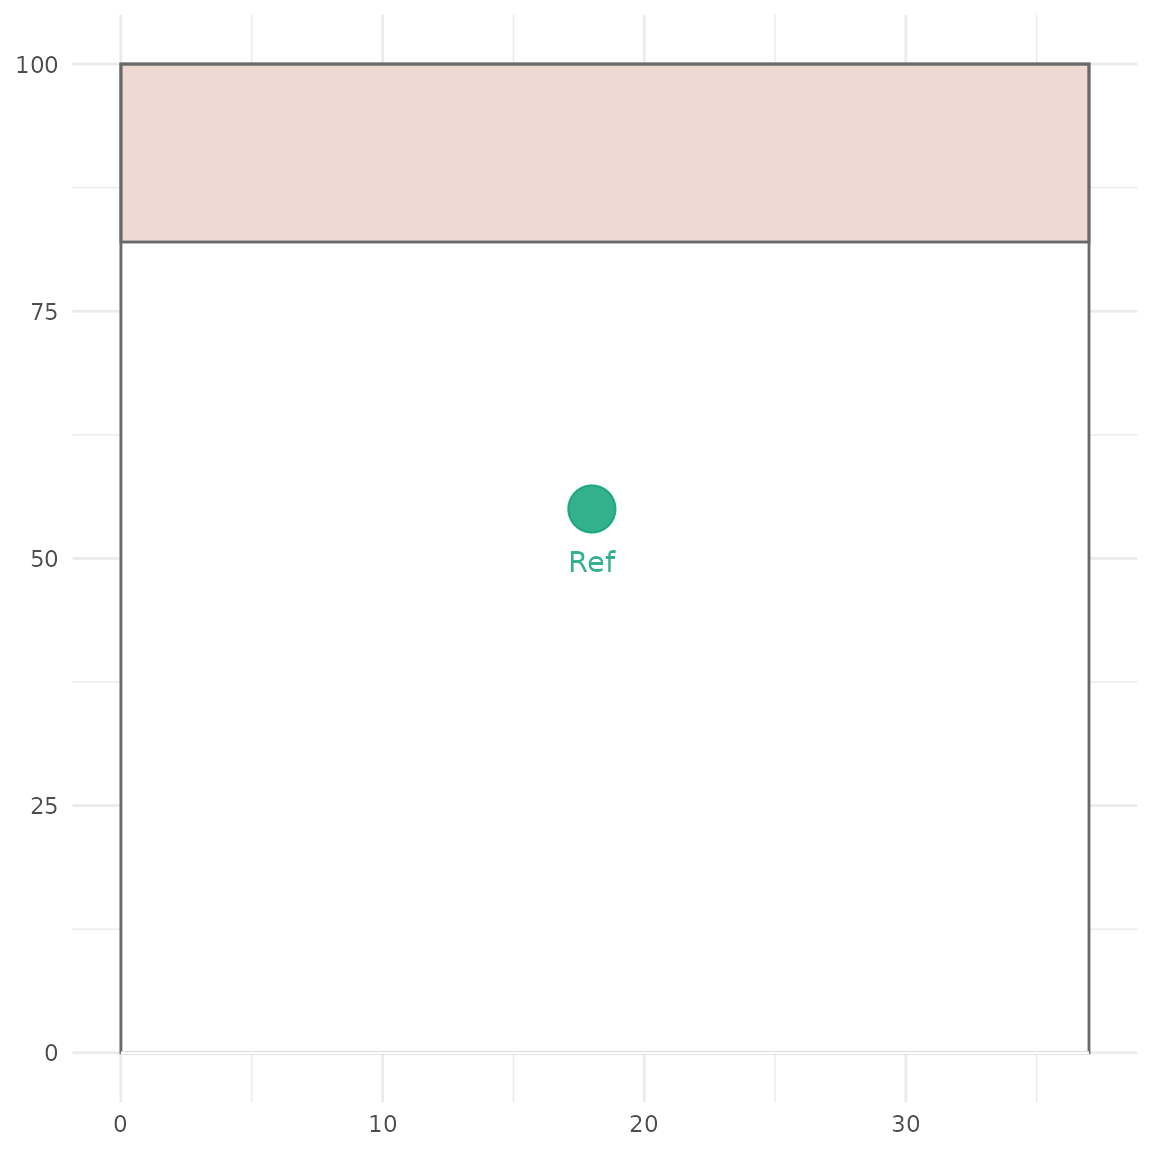
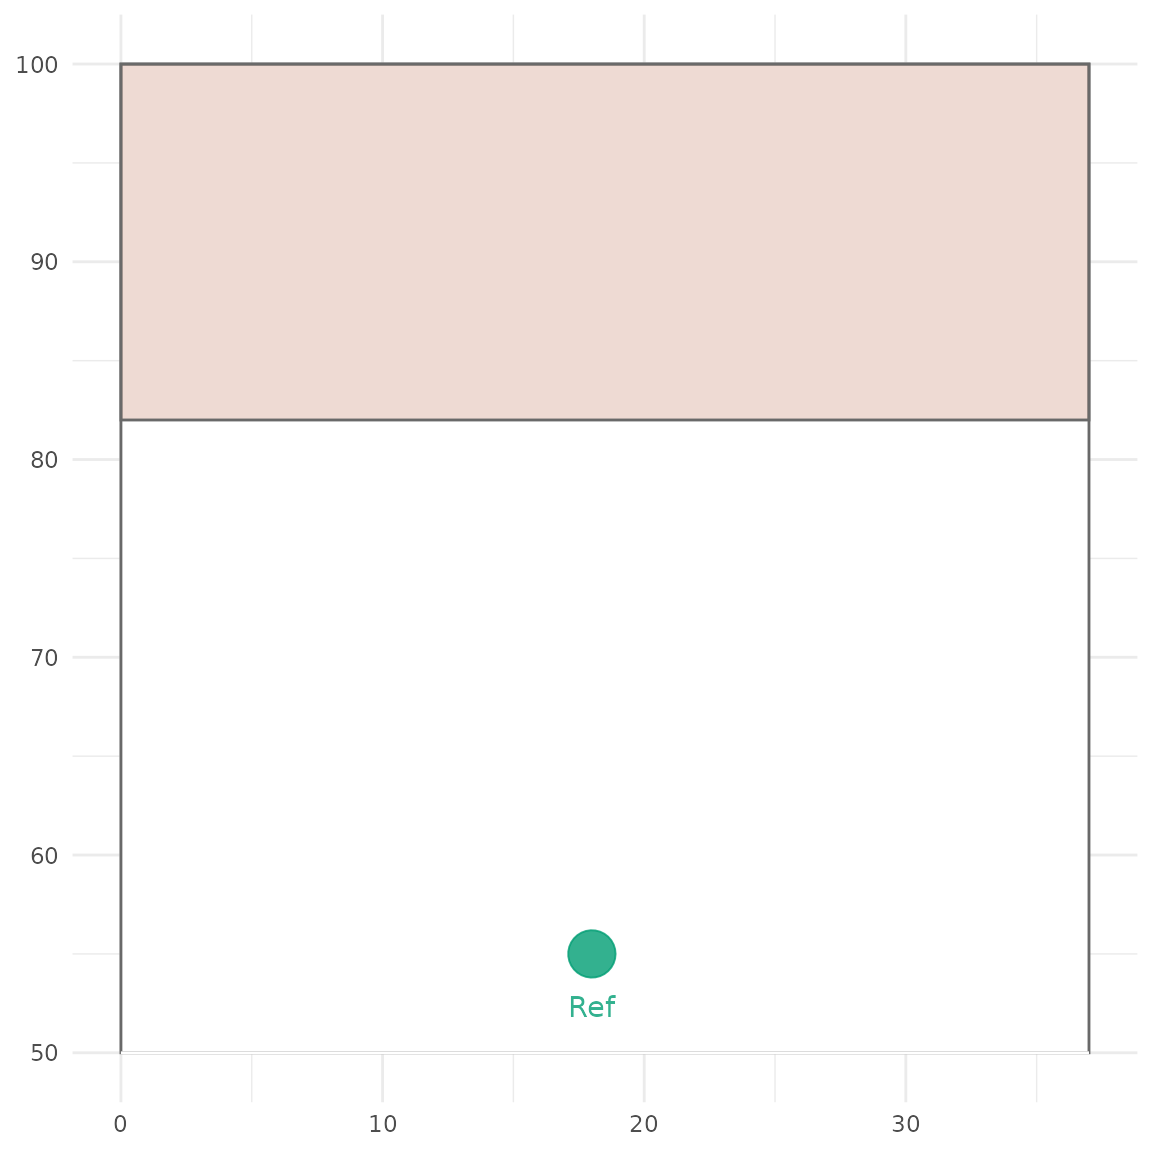
Deploying to gh-pages from @ swebb1/ggulti@e62d3962bcc250b4de312a87a2ffb97cc0c7c3d3 🚀

diff --git a/articles/Drawing_up_plays.html b/articles/Drawing_up_plays.html
@@ -88,7 +88,7 @@
 <code>endzone_fill</code> argument specifies the color of the
 endzone.</p>
 <div class="sourceCode" id="cb3"><pre class="downlit sourceCode r">
-<code class="sourceCode R"><span><span class="va">pitch</span> <span class="op">=</span> <span class="fu"><a href="../reference/ggpitch.html">ggpitch</a></span><span class="op">(</span>type<span class="op">=</span><span class="st">"half_attack"</span>,endzone_fill <span class="op">=</span> <span class="st">"#AA4422"</span><span class="op">)</span></span></code></pre></div>
+<code class="sourceCode R"><span><span class="va">pitch</span> <span class="op">=</span> <span class="fu"><a href="../reference/ggpitch.html">ggpitch</a></span><span class="op">(</span>type<span class="op">=</span><span class="st">"half_attack"</span>,endzone_fill <span class="op">=</span> <span class="st">"#AA4422"</span>, ymin <span class="op">=</span> <span class="fl">50</span><span class="op">)</span></span></code></pre></div>
 <p>Pitch types</p>
 <ul>
 <li><p>“full” = Full pitch (default)</p></li>
@@ -103,10 +103,10 @@ endzone.</p>
 <code class="sourceCode R"><span><span class="fu"><a href="../reference/ggpitch.html">ggpitch</a></span><span class="op">(</span><span class="op">)</span></span></code></pre></div>
 <p><img src=".unnamed-chunk-4-1.png" width="576"></p>
 <div class="sourceCode" id="cb5"><pre class="downlit sourceCode r">
-<code class="sourceCode R"><span><span class="fu"><a href="../reference/ggpitch.html">ggpitch</a></span><span class="op">(</span>type <span class="op">=</span> <span class="st">"half_attack"</span>, fill <span class="op">=</span> <span class="st">"lightgreen"</span>, alpha<span class="op">=</span><span class="fl">1</span><span class="op">)</span></span></code></pre></div>
+<code class="sourceCode R"><span><span class="fu"><a href="../reference/ggpitch.html">ggpitch</a></span><span class="op">(</span>type <span class="op">=</span> <span class="st">"half_attack"</span>, fill <span class="op">=</span> <span class="st">"lightgreen"</span>, alpha<span class="op">=</span><span class="fl">1</span>, ymin <span class="op">=</span> <span class="fl">50</span><span class="op">)</span></span></code></pre></div>
 <p><img src=".unnamed-chunk-5-1.png" width="576"></p>
 <div class="sourceCode" id="cb6"><pre class="downlit sourceCode r">
-<code class="sourceCode R"><span><span class="fu"><a href="../reference/ggpitch.html">ggpitch</a></span><span class="op">(</span>type <span class="op">=</span> <span class="st">"half_defend"</span>, endzone_fill <span class="op">=</span> <span class="st">"black"</span><span class="op">)</span></span></code></pre></div>
+<code class="sourceCode R"><span><span class="fu"><a href="../reference/ggpitch.html">ggpitch</a></span><span class="op">(</span>type <span class="op">=</span> <span class="st">"half_defend"</span>, endzone_fill <span class="op">=</span> <span class="st">"black"</span>, ymax <span class="op">=</span> <span class="fl">50</span><span class="op">)</span></span></code></pre></div>
 <p><img src=".unnamed-chunk-6-1.png" width="576"></p>
 <div class="sourceCode" id="cb7"><pre class="downlit sourceCode r">
 <code class="sourceCode R"><span><span class="fu"><a href="../reference/ggpitch.html">ggpitch</a></span><span class="op">(</span>type <span class="op">=</span> <span class="st">"blank"</span>, ymax <span class="op">=</span> <span class="fl">50</span>, xmax <span class="op">=</span> <span class="fl">30</span><span class="op">)</span></span></code></pre></div>

diff --git a/reference/hstack.html b/reference/hstack.html
@@ -54,18 +54,19 @@
     <div class="sourceCode"><pre class="sourceCode r"><code><span class="r-in"><span><span class="va">hstack</span></span></span>
 <span class="r-out co"><span class="r-pr">#&gt;</span> function () </span>
 <span class="r-out co"><span class="r-pr">#&gt;</span> {</span>
-<span class="r-out co"><span class="r-pr">#&gt;</span>     players &lt;- list(player("H1", show = T, x = c(8), y = c(22), </span>
-<span class="r-out co"><span class="r-pr">#&gt;</span>         alpha = 0.8, frame = 1), player("H2", show = T, x = c(17), </span>
-<span class="r-out co"><span class="r-pr">#&gt;</span>         y = c(22), alpha = 0.8, frame = 1), player("H3", show = T, </span>
-<span class="r-out co"><span class="r-pr">#&gt;</span>         x = c(25), y = c(22), alpha = 0.8, frame = 1), player("C1", </span>
-<span class="r-out co"><span class="r-pr">#&gt;</span>         show = T, x = c(7), y = c(40), alpha = 0.8, frame = 1), </span>
-<span class="r-out co"><span class="r-pr">#&gt;</span>         player("C2", show = T, x = c(15), y = c(40), alpha = 0.8, </span>
-<span class="r-out co"><span class="r-pr">#&gt;</span>             frame = 1), player("C3", show = T, x = c(22), y = c(40), </span>
-<span class="r-out co"><span class="r-pr">#&gt;</span>             alpha = 0.8, frame = 1), player("C4", show = T, x = c(29), </span>
-<span class="r-out co"><span class="r-pr">#&gt;</span>             y = c(40), alpha = 0.8, frame = 1))</span>
+<span class="r-out co"><span class="r-pr">#&gt;</span>     players &lt;- list(pitch_object("H1", show = T, x = c(8.5), </span>
+<span class="r-out co"><span class="r-pr">#&gt;</span>         y = c(22), alpha = 0.8, frame = 1), pitch_object("H2", </span>
+<span class="r-out co"><span class="r-pr">#&gt;</span>         show = T, x = c(19), y = c(22), alpha = 0.8, frame = 1), </span>
+<span class="r-out co"><span class="r-pr">#&gt;</span>         pitch_object("H3", show = T, x = c(29), y = c(22), alpha = 0.8, </span>
+<span class="r-out co"><span class="r-pr">#&gt;</span>             frame = 1), pitch_object("C1", show = T, x = c(3), </span>
+<span class="r-out co"><span class="r-pr">#&gt;</span>             y = c(40), alpha = 0.8, frame = 1), pitch_object("C2", </span>
+<span class="r-out co"><span class="r-pr">#&gt;</span>             show = T, x = c(12.5), y = c(40), alpha = 0.8, frame = 1), </span>
+<span class="r-out co"><span class="r-pr">#&gt;</span>         pitch_object("C3", show = T, x = c(24.5), y = c(40), </span>
+<span class="r-out co"><span class="r-pr">#&gt;</span>             alpha = 0.8, frame = 1), pitch_object("C4", show = T, </span>
+<span class="r-out co"><span class="r-pr">#&gt;</span>             x = c(34), y = c(40), alpha = 0.8, frame = 1))</span>
 <span class="r-out co"><span class="r-pr">#&gt;</span>     bind_rows(players)</span>
 <span class="r-out co"><span class="r-pr">#&gt;</span> }</span>
-<span class="r-out co"><span class="r-pr">#&gt;</span> &lt;bytecode: 0x559680e8d5b0&gt;</span>
+<span class="r-out co"><span class="r-pr">#&gt;</span> &lt;bytecode: 0x55c9ca66ded8&gt;</span>
 <span class="r-out co"><span class="r-pr">#&gt;</span> &lt;environment: namespace:ggulti&gt;</span>
 </code></pre></div>
     </div>
